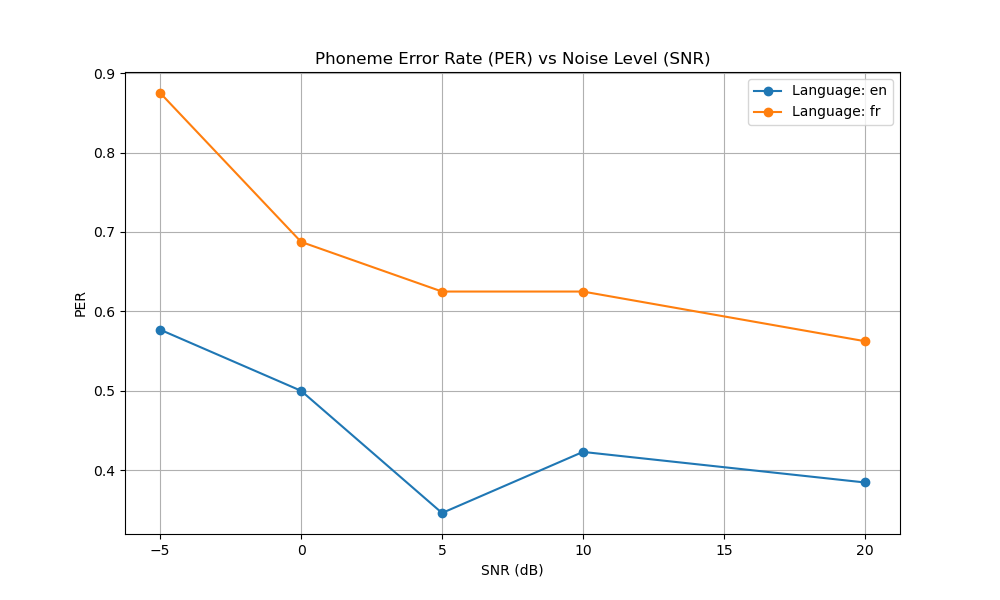
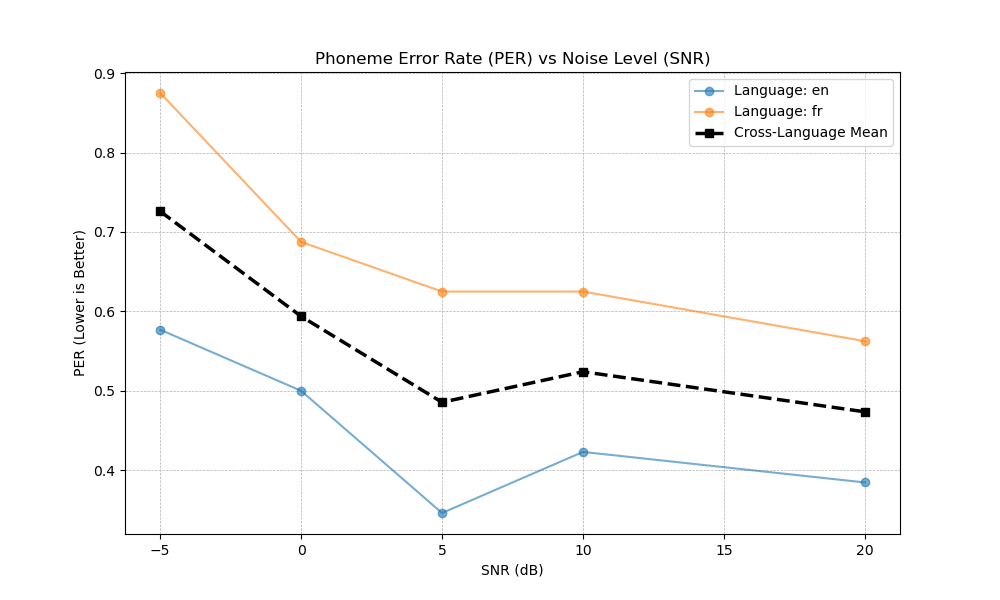
Add plot for cross-language mean

diff --git a/src/evaluate.py b/src/evaluate.py
@@ -114,28 +114,53 @@ def plot_results(all_results, params):
     
     plt.figure(figsize=(10, 6))
     
+    # Data structure to hold PERs for each SNR across all languages
+    # snr_map = { 20: [0.1, 0.2], 10: [0.3, 0.4] ... }
+    snr_map = {}
+
+    # 1. Plot individual languages
     for lang, data in all_results.items():
-        # Extract SNR and PER, sort by SNR
-        # Filter out 'clean' (inf) for the line plot to avoid scaling issues, 
-        # or plot it separately. Let's plot numeric SNRs.
         points = []
         for name, metrics in data.items():
-            if metrics['snr'] != float('inf'):
-                points.append((metrics['snr'], metrics['per']))
-        
-        points.sort(key=lambda x: x[0]) # Sort by SNR low to high
-        
-        if not points:
-            continue
+            snr = metrics['snr']
+            per = metrics['per']
             
-        snrs, pers = zip(*points)
-        plt.plot(snrs, pers, marker='o', label=f"Language: {lang}")
+            # Skip 'clean' (inf) for plotting or handle separately
+            if snr != float('inf'):
+                points.append((snr, per))
+                
+                # Collect for mean calculation
+                if snr not in snr_map:
+                    snr_map[snr] = []
+                snr_map[snr].append(per)
+        
+        # Sort by SNR
+        points.sort(key=lambda x: x[0])
+        
+        if points:
+            snrs, pers = zip(*points)
+            plt.plot(snrs, pers, marker='o', label=f"Language: {lang}", alpha=0.6)
+
+    # 2. Calculate and Plot Cross-language Mean
+    if snr_map:
+        mean_points = []
+        for snr, per_list in snr_map.items():
+            mean_per = sum(per_list) / len(per_list)
+            mean_points.append((snr, mean_per))
+        
+        # Sort by SNR
+        mean_points.sort(key=lambda x: x[0])
+        
+        mean_snrs, mean_pers = zip(*mean_points)
+        # Plot mean with a thicker, distinct line (e.g., Black Dashed)
+        plt.plot(mean_snrs, mean_pers, color='black', linewidth=2.5, linestyle='--', marker='s', label="Cross-Language Mean")
 
     plt.title("Phoneme Error Rate (PER) vs Noise Level (SNR)")
     plt.xlabel("SNR (dB)")
-    plt.ylabel("PER")
-    plt.grid(True)
+    plt.ylabel("PER (Lower is Better)")
+    plt.grid(True, which='both', linestyle='--', linewidth=0.5)
     plt.legend()
+    
     plt.savefig(output_plot)
     print(f"Plot saved to {output_plot}")
 
